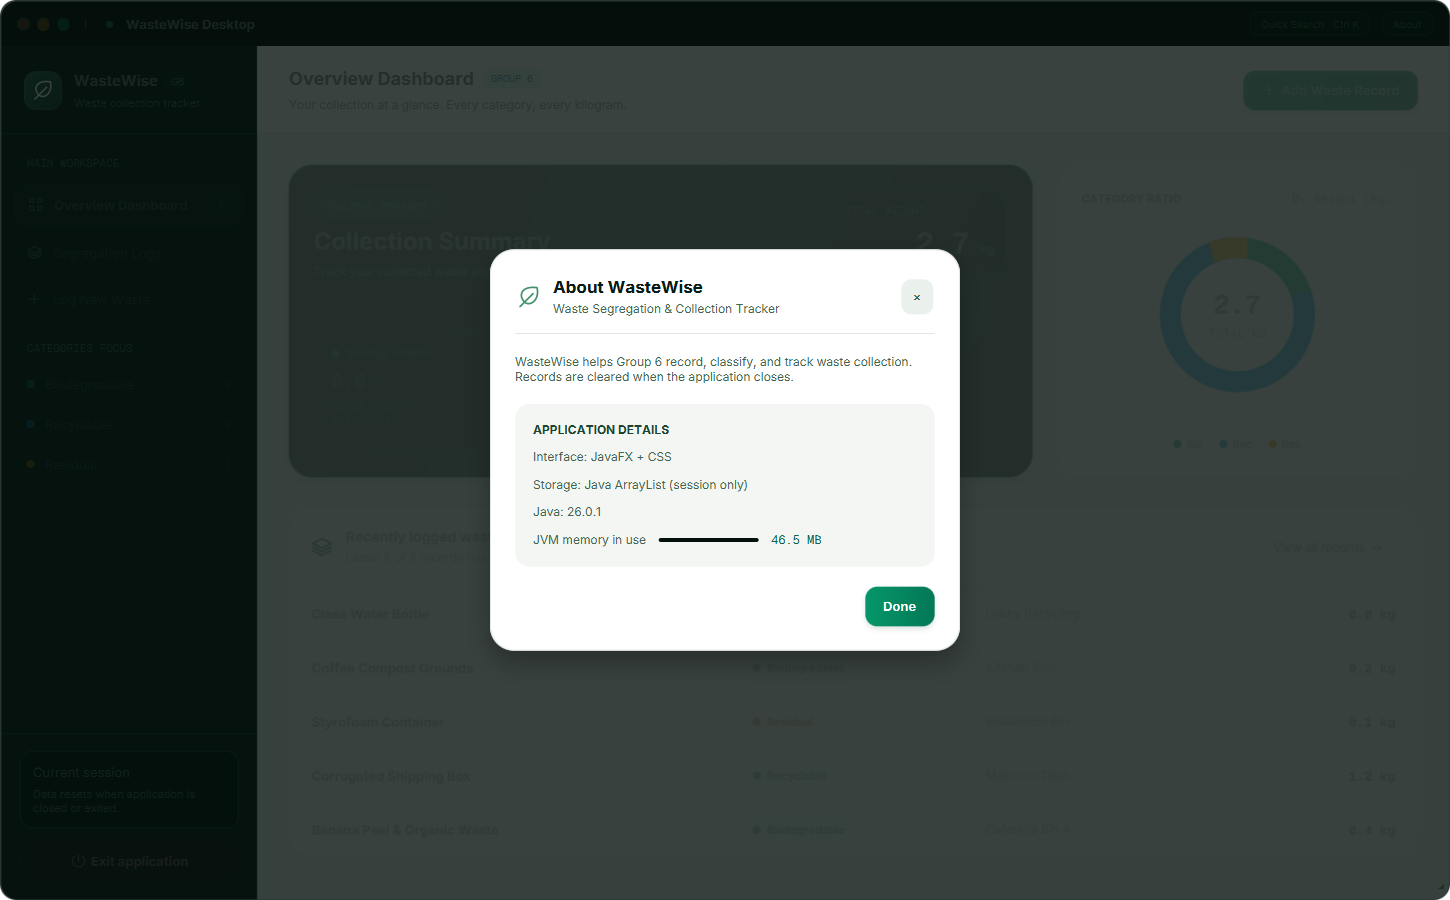
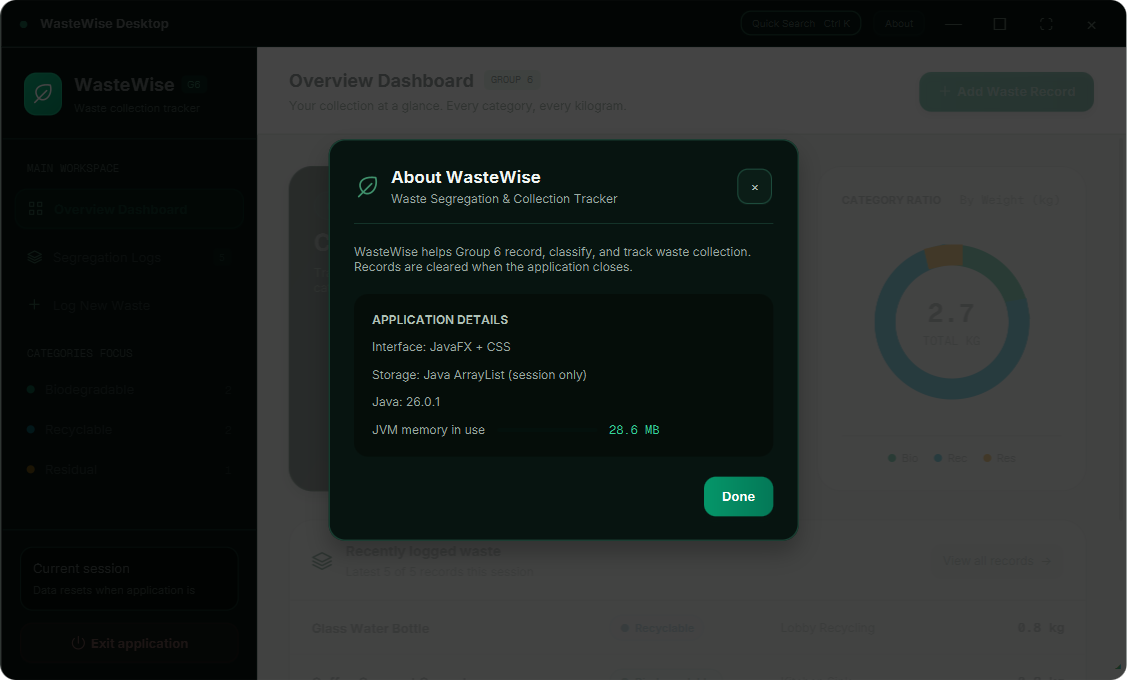
Updated the whole interface

diff --git a/src/main/resources/com/group6/wastewise/theme.css b/src/main/resources/com/group6/wastewise/theme.css
@@ -164,3 +164,77 @@
 .window-control { -fx-background-color: transparent; -fx-text-fill: #d8f3dc; -fx-font-size: 17px; -fx-min-width: 34; -fx-padding: 2 8; -fx-background-radius: 6; }
 .window-control:hover { -fx-background-color: #1b4332; }
 .window-close:hover { -fx-background-color: #b91c1c; -fx-text-fill: white; }
+
+/* EcoWise reference: dark emerald chrome and records; original overview retained. */
+.titlebar { -fx-background-color: #071410; -fx-border-color: transparent transparent #143329 transparent; }
+.sidebar { -fx-background-color: #071410; -fx-border-color: transparent #143329 transparent transparent; }
+.brand { -fx-border-color: transparent transparent #143329 transparent; }
+.brand-icon { -fx-background-color: linear-gradient(to bottom right,#10b981,#059669); -fx-border-color: #34d39966; }
+.brand-name { -fx-font-size: 18px; }
+.nav-active { -fx-background-color: #10b9811a; -fx-border-color: #10b98144; }
+.nav-active .side-label { -fx-text-fill: #34d399; }
+.side-label { -fx-text-fill: #cbd5d1; }
+.side-muted,.nav-heading { -fx-text-fill: #8a9e96; }
+.nav-button:hover,.category-nav:hover { -fx-background-color: #0f261f; }
+.runtime-note { -fx-background-color: #050d09; -fx-border-color: #143329; }
+.side-bottom { -fx-border-color: #143329 transparent transparent transparent; }
+.title-search { -fx-background-color: #0b1d17; -fx-border-color: #143329; -fx-text-fill: #a9c1b5; }
+.dark-workspace { -fx-background-color: #050d09; }
+.dark-workspace .page-header { -fx-background-color: #050d09; -fx-border-color: transparent transparent #143329 transparent; -fx-padding: 22 30; }
+.dark-workspace .page-title { -fx-text-fill: #f4f7f5; -fx-font-size: 24px; }
+.dark-workspace .group-badge { -fx-background-color: #10b98119; -fx-text-fill: #6ee7b7; -fx-border-color: #10b98133; -fx-border-radius: 5; }
+.dark-workspace .muted,.modal-card .muted,.toast .muted { -fx-text-fill: #9baaa3; }
+.dark-workspace .inventory-stat { -fx-background-color: linear-gradient(to bottom right,#0b1d17,#071410); -fx-border-color: #143329; -fx-border-width: 1; -fx-padding: 16; }
+.dark-workspace .stat-caption { -fx-text-fill: #b5c6bd; -fx-font-size: 12px; }
+.dark-workspace .stat-value { -fx-text-fill: white; -fx-font-size: 26px; }
+.dark-workspace .bio-stat .stat-value { -fx-text-fill: #34d399; }
+.dark-workspace .rec-stat .stat-value { -fx-text-fill: #22d3ee; }
+.dark-workspace .res-stat .stat-value { -fx-text-fill: #fbbf24; }
+.stat-foot { -fx-padding: 10 0 0 0; -fx-border-color: #143329 transparent transparent transparent; }
+.stat-foot .label { -fx-font-size: 10px; }
+.distribution-card { -fx-background-color: #0b1d17; -fx-background-radius: 12; -fx-border-radius: 12; -fx-border-color: #143329; -fx-padding: 14 18; }
+.distribution-title { -fx-text-fill: #d1ded7; -fx-font-size: 11px; -fx-font-weight: bold; }
+.distribution-card .flow-pane .label { -fx-font-size: 11px; }
+.distribution-track { -fx-background-color: #050d09; -fx-background-radius: 8; -fx-padding: 2; }
+.dark-workspace .records-toolbar { -fx-background-color: #0b1d17; -fx-border-color: #143329; -fx-background-radius: 12; -fx-border-radius: 12; -fx-padding: 12; }
+.dark-workspace .filters { -fx-background-color: #050d09; -fx-border-color: #143329; }
+.dark-workspace .filter { -fx-text-fill: #a2b1a9; -fx-padding: 8 9; }
+.dark-workspace .filter:hover { -fx-background-color: #143329; -fx-text-fill: white; }
+.dark-workspace .filter:selected { -fx-background-color: #10b981; -fx-text-fill: white; }
+.dark-workspace .text-field,.modal-card .text-field,.modal-card .combo-box { -fx-background-color: #050d09; -fx-border-color: #1e4d3d; -fx-text-fill: #e4eee8; -fx-prompt-text-fill: #85978d; }
+.dark-workspace .text-field:focused,.modal-card .text-field:focused,.modal-card .combo-box:focused { -fx-border-color: #34d399; }
+.dark-workspace .ledger { -fx-background-color: #071410; -fx-border-color: #143329; -fx-background-radius: 16; -fx-border-radius: 16; }
+.dark-workspace .section-title,.modal-card .modal-title,.toast .section-title { -fx-text-fill: #f1f5f2; }
+.dark-workspace .quiet,.modal-card .quiet { -fx-background-color: #0b1d17; -fx-border-color: #1e4d3d; -fx-border-radius: 10; -fx-text-fill: #c8d5cd; }
+.dark-workspace .quiet:hover,.modal-card .quiet:hover { -fx-background-color: #143329; }
+.dark-workspace .table-view .column-header-background,.dark-workspace .table-view .column-header,.dark-workspace .table-view .filler { -fx-background-color: #0b1d17; }
+.dark-workspace .table-view .column-header .label { -fx-text-fill: #9baaa3; }
+.dark-workspace .table-row-cell { -fx-background-color: #071410; -fx-border-color: transparent transparent #14332988 transparent; }
+.dark-workspace .table-row-cell:filled:hover { -fx-background-color: #0f261f; }
+.dark-workspace .table-row-cell:filled:selected { -fx-background-color: #1e4d3d; }
+.dark-workspace .table-row-cell:empty { -fx-border-color: transparent; }
+.dark-workspace .table-cell { -fx-text-fill: #d4e1d9; }
+.dark-workspace .bio-badge { -fx-background-color: #10b98115; -fx-border-color: #10b98144; -fx-text-fill: #34d399; }
+.dark-workspace .rec-badge { -fx-background-color: #06b6d415; -fx-border-color: #06b6d444; -fx-text-fill: #22d3ee; }
+.dark-workspace .res-badge { -fx-background-color: #f59e0b15; -fx-border-color: #f59e0b44; -fx-text-fill: #fbbf24; }
+.dark-workspace .delete-button { -fx-background-color: #0b1d17; }
+.dark-workspace .delete-button:hover { -fx-background-color: #ef444433; }
+.dark-workspace .ledger-footer { -fx-border-color: #143329 transparent transparent transparent; }
+.dark-workspace .visible-weight { -fx-background-color: #10b98120; -fx-text-fill: #6ee7b7; -fx-border-color: #10b98144; -fx-border-radius: 7; }
+.dark-workspace .rec-text { -fx-text-fill: #22d3ee; }
+.modal-overlay { -fx-background-color: #000000bb; }
+.modal-card { -fx-background-color: #071410; -fx-border-color: #1e4d3d; -fx-background-radius: 16; -fx-border-radius: 16; }
+.modal-header { -fx-border-color: transparent transparent #143329 transparent; }
+.modal-card .field-label { -fx-text-fill: #afc1b6; }
+.modal-card .validation-error { -fx-text-fill: #fda4af; }
+.modal-card .combo-box .list-cell { -fx-background-color: transparent; -fx-text-fill: #e4eee8; }
+.combo-box-popup .list-view { -fx-background-color: #0b1d17; -fx-border-color: #1e4d3d; }
+.combo-box-popup .list-cell { -fx-background-color: #0b1d17; -fx-text-fill: #e4eee8; -fx-padding: 10; }
+.combo-box-popup .list-cell:filled:hover,.combo-box-popup .list-cell:filled:selected { -fx-background-color: #1e4d3d; }
+.category-helper { -fx-text-fill: #6ee7b7; -fx-background-color: #050d09; -fx-border-color: #143329; -fx-border-radius: 8; -fx-background-radius: 8; -fx-padding: 10; -fx-font-size: 11px; }
+.modal-card .warning-note { -fx-background-color: #050d09; -fx-border-color: #f59e0b44; }
+.modal-card .warning-heading { -fx-text-fill: #fbbf24; }
+.modal-card .warning-copy { -fx-text-fill: #c2cec7; -fx-font-size: 12px; }
+.about-details { -fx-background-color: #050d09; }
+.about-details .heap-text { -fx-text-fill: #34d399; }
+.toast { -fx-background-color: #0b1d17; -fx-border-color: #1e4d3d; }

diff --git a/src/main/java/com/group6/wastewise/WasteWiseApp.java b/src/main/java/com/group6/wastewise/WasteWiseApp.java
@@ -58,6 +58,10 @@ public class WasteWiseApp extends Application {
     private final Button clearFilters = button("Clear filters", "quiet", this::clearFilters);
     private BorderPane workspacePane;
     private VBox logsPage;
+    private final ScrollPane logsScroll = new ScrollPane();
+    private final Canvas distribution = new Canvas(600, 10);
+    private final EnumMap<Category, Label> ratioLabels = new EnumMap<>(Category.class);
+    private final EnumMap<Category, Label> statShares = new EnumMap<>(Category.class);
     private Button overviewNav;
     private Button logsNav;
     private boolean showingLogs;
@@ -179,8 +183,9 @@ public class WasteWiseApp extends Application {
         nav.getChildren().add(label("MAIN WORKSPACE", "nav-heading mono"));
         overviewNav = navButton("Overview Dashboard", "grid", () -> showView(false));
         overviewNav.setId("nav-overview"); overviewNav.getStyleClass().add("nav-active");
-        HBox overviewGraphic = (HBox) overviewNav.getGraphic(); overviewGraphic.getChildren().addAll(spacer(), recordCount);
+
         logsNav = navButton("Segregation Logs", "layers", () -> showView(true)); logsNav.setId("nav-logs");
+        ((HBox)logsNav.getGraphic()).getChildren().addAll(spacer(),recordCount);
         nav.getChildren().addAll(overviewNav, logsNav, navButton("Log New Waste", "plus", this::openAddModal));
         VBox categories = new VBox(8); categories.getStyleClass().add("nav-section"); categories.getChildren().add(label("CATEGORIES FOCUS", "nav-heading mono"));
         for (Category c : Category.values()) {
@@ -203,11 +208,16 @@ public class WasteWiseApp extends Application {
         body.getStyleClass().add("body-content"); body.setId("overview-page"); body.getChildren().addAll(metrics(), recentActivity());
         scroll.setContent(body); scroll.setFitToWidth(true); scroll.setHbarPolicy(ScrollPane.ScrollBarPolicy.NEVER); scroll.getStyleClass().add("workspace-scroll");
         logsPage = ledger(); logsPage.setId("logs-page");
+        logsPage.setMinHeight(590);
+        logsScroll.setContent(logsPage); logsScroll.setFitToWidth(true); logsScroll.setFitToHeight(true);
+        logsScroll.setHbarPolicy(ScrollPane.ScrollBarPolicy.NEVER); logsScroll.getStyleClass().add("workspace-scroll");
         workspacePane = new BorderPane(scroll); workspacePane.setTop(header); workspacePane.getStyleClass().add("workspace"); return workspacePane;
     }
     private void showView(boolean logs) {
         showingLogs = logs;
-        workspacePane.setCenter(logs ? logsPage : scroll);
+        workspacePane.setCenter(logs ? logsScroll : scroll);
+        workspacePane.getStyleClass().remove("dark-workspace");
+        if (logs) workspacePane.getStyleClass().add("dark-workspace");
         pageTitle.setText(logs ? "Segregation Logs" : "Overview Dashboard");
         pageSubtitle.setText(logs ? "Search, filter, and manage your collection records." : "Your collection at a glance. Every category, every kilogram.");
         overviewNav.getStyleClass().remove("nav-active"); logsNav.getStyleClass().remove("nav-active");
@@ -240,14 +250,40 @@ public class WasteWiseApp extends Application {
     }
     private HBox inventoryStats() {
         HBox stats = new HBox(14);
-        VBox all = column(10,label("TOTAL COLLECTION","stat-caption"),logsTotal,logsCount); all.getStyleClass().addAll("inventory-stat","total-stat");
+        VBox all = column(10,label("TOTAL COLLECTION","stat-caption"),logsTotal,statFoot(logsCount,label("All waste","muted"))); all.getStyleClass().addAll("inventory-stat","total-stat");
         stats.getChildren().add(categoryLink(all,null,"logs-all"));
         for (Category c : Category.values()) {
             Label value = label("0.0 kg","stat-value mono"), count = label("0 records","muted"); logWeights.put(c,value); logCounts.put(c,count);
-            VBox card = column(10,row(7,dot(c),label(c.toString(),"stat-caption")),value,count); card.getStyleClass().addAll("inventory-stat",c.style()+"-stat"); stats.getChildren().add(categoryLink(card,c,"logs-"+c.style()));
+            Label share = label("0.0%",c.style()+"-text mono"); statShares.put(c,share);
+            VBox card = column(10,row(7,dot(c),label(c.toString(),"stat-caption")),value,statFoot(count,share)); card.getStyleClass().addAll("inventory-stat",c.style()+"-stat"); stats.getChildren().add(categoryLink(card,c,"logs-"+c.style()));
         }
         for (Node n : stats.getChildren()) { Region card=(Region)n; card.setMinWidth(0); card.setPrefWidth(250); card.setMaxWidth(Double.MAX_VALUE); HBox.setHgrow(card,Priority.ALWAYS); }
         return stats;
+    }
+    private HBox statFoot(Label count, Label share) {
+        HBox foot = row(4,count,spacer(),share); foot.getStyleClass().add("stat-foot"); return foot;
+    }
+    private VBox distributionCard() {
+        FlowPane legend = new FlowPane(16,6);
+        for (Category c : Category.values()) {
+            Label value = label("",c.style()+"-text mono"); ratioLabels.put(c,value);
+            legend.getChildren().add(row(6,dot(c),value));
+        }
+        StackPane track = new StackPane(distribution); track.getStyleClass().add("distribution-track");
+        distribution.widthProperty().bind(track.widthProperty().subtract(4));
+        distribution.widthProperty().addListener((o,a,b) -> drawDistribution());
+        VBox card = column(10,label("STREAM WEIGHT DISTRIBUTION","distribution-title mono"),legend,track);
+        card.getStyleClass().add("distribution-card"); return card;
+    }
+    private void drawDistribution() {
+        double sum=tracker.calculateTotalWeight(), x=0;
+        GraphicsContext gc=distribution.getGraphicsContext2D(); gc.clearRect(0,0,distribution.getWidth(),10);
+        for (Category c : Category.values()) {
+            double share=sum==0?0:tracker.calculateCategoryWeight(c)/sum;
+            double width=share*distribution.getWidth(); gc.setFill(Color.web(color(c))); gc.fillRect(x,0,width,10); x+=width;
+            if (ratioLabels.containsKey(c)) ratioLabels.get(c).setText(c+String.format(Locale.US," (%.1f%%)",share*100));
+            if (statShares.containsKey(c)) statShares.get(c).setText(String.format(Locale.US,"%.1f%%",share*100));
+        }
     }
     private Button categoryLink(VBox content, Category category, String id) {
         Button link = button("", "card-link", () -> { showView(true); search.clear(); setFilter(category); });
@@ -345,7 +381,7 @@ public class WasteWiseApp extends Application {
         undo.setId("undo-button");
         HBox foot = row(10, footer, spacer(),label("Visible records weight", "muted"),visibleWeight); foot.getStyleClass().add("ledger-footer");
         ledger.getChildren().addAll(tableHeading, table, foot); VBox.setVgrow(ledger,Priority.ALWAYS);
-        VBox page = column(20, inventoryStats(),tools,ledger); page.getStyleClass().add("logs-content");
+        VBox page = column(16, inventoryStats(),distributionCard(),tools,ledger); page.getStyleClass().add("logs-content");
         return page;
     }
     private TableColumn<Waste,String> textColumn(String title, java.util.function.Function<Waste,String> value, double width) {
@@ -388,14 +424,14 @@ public class WasteWiseApp extends Application {
             logCounts.get(c).setText(countText);
             percentages.get(c).setText(percentages.get(c).getText() + "\n" + countText);
         }
-        refreshRecent(); refreshTable(); updateHeap();
+        drawDistribution(); refreshRecent(); refreshTable(); updateHeap();
     }
     private void updateHeap() {
         Runtime r = Runtime.getRuntime(); long used = r.totalMemory() - r.freeMemory();
         heapText.setText(String.format(Locale.US, "%.1f MB", used / 1048576.0)); heapBar.setProgress((double) used / r.maxMemory());
     }
     private void delete(Waste w) { if (tracker.removeWaste(w.getId())) { refresh(); toast("Record Deleted", "Removed \"" + w.getWasteName() + "\". Use Undo last delete to restore."); } }
-    private void undoDelete() { if (tracker.undoLastDelete()) { refresh(); toast("Restored", "Record restored to ArrayList memory."); } }
+    private void undoDelete() { if (tracker.undoLastDelete()) { refresh(); toast("Restored", "Record restored to your collection."); } }
 
     private void openAddModal() {
         if (overlay != null) return;
@@ -403,6 +439,12 @@ public class WasteWiseApp extends Application {
         ComboBox<Category> category = new ComboBox<>(FXCollections.observableArrayList(Category.values())); category.setPromptText("Choose category..."); category.setMaxWidth(Double.MAX_VALUE); category.setId("input-category");
         TextField weight = new TextField(); weight.setPromptText("0.5"); weight.setId("input-weight");
         TextField location = new TextField(); location.setPromptText("Cafeteria Bin A"); location.setId("input-location");
+        Label helper = label("Choose a category to see example items.", "category-helper"); helper.setWrapText(true); helper.setId("category-helper");
+        category.valueProperty().addListener((o,a,c) -> helper.setText(c == null ? "Choose a category to see example items." : switch(c) {
+            case BIODEGRADABLE -> "Examples: fruit peels, food scraps, leaves and garden waste.";
+            case RECYCLABLE -> "Examples: clean paper, cardboard, bottles and metal cans. Follow local collection rules.";
+            case RESIDUAL -> "Examples: used tissues, diapers and non-recyclable wrappers.";
+        }));
         Label error = label("", "validation-error"); error.setId("form-error"); error.setWrapText(true);
         VBox left = field("WEIGHT (kg)", weight), right = field("LOCATION / BIN", location); HBox.setHgrow(left,Priority.ALWAYS); HBox.setHgrow(right,Priority.ALWAYS);
         Button save = button("Add Waste Record", "primary", () -> {
@@ -413,7 +455,7 @@ public class WasteWiseApp extends Application {
                 refresh(); closeModal(); toast("Record Added", "Logged \"" + added.getWasteName() + "\" successfully.");
             } catch (IllegalArgumentException ex) { error.setText(ex.getMessage()); }
         }); save.setId("save-record"); save.setDefaultButton(true);
-        VBox card = column(18, modalHeader("Add Waste Item", "Record a collection for this session", "plus"), field("WASTE ITEM NAME", name), field("CATEGORY SELECT", category), new HBox(12,left,right), error, row(10, spacer(), button("Cancel", "quiet", this::closeModal), save));
+        VBox card = column(18, modalHeader("Add Waste Item", "Record a collection for this session", "plus"), field("WASTE ITEM NAME", name), column(8,field("WASTE CATEGORY", category),helper), new HBox(12,left,right), error, row(10, spacer(), button("Cancel", "quiet", this::closeModal), save));
         showModal(card); Platform.runLater(name::requestFocus);
     }
     private void openExitModal() {
@@ -421,7 +463,7 @@ public class WasteWiseApp extends Application {
         Label warning = label("Your records are stored only for this session. Closing the application will remove all logged waste records.", "warning-copy"); warning.setWrapText(true);
         VBox note = column(10, label("SESSION RECORDS WILL BE LOST", "warning-heading mono"), warning); note.getStyleClass().add("warning-note");
         Button exit = button("Exit application", "danger", () -> { tracker.clear(); stage.hide(); Platform.exit(); }); exit.setId("confirm-exit");
-        VBox card = column(20, modalHeader("Exit Program Confirmation", "Your session has not been saved", "power"), label("Are you sure you want to end the Java application session?", "muted"), note, row(10, spacer(), button("Cancel & Keep Running", "quiet", this::closeModal), exit));
+        VBox card = column(20, modalHeader("Exit Program Confirmation", "Your session has not been saved", "power"), label("Are you sure you want to end this tracking session?", "muted"), note, row(10, spacer(), button("Resume Tracking", "quiet", this::closeModal), exit));
         showModal(card);
     }
     private HBox modalHeader(String title, String subtitle, String icon) { HBox h = row(12, icon(icon,"#40916c",24), column(4,label(title,"modal-title"),label(subtitle,"muted")), spacer(), button("×","quiet",this::closeModal)); h.getStyleClass().add("modal-header"); return h; }
@@ -447,7 +489,7 @@ public class WasteWiseApp extends Application {
     private static HBox row(double gap, Node... nodes) { HBox box = new HBox(gap,nodes); box.setAlignment(Pos.CENTER_LEFT); return box; }
     private static VBox column(double gap, Node... nodes) { return new VBox(gap,nodes); }
     private static Region spacer() { Region r = new Region(); HBox.setHgrow(r,Priority.ALWAYS); return r; }
-    private static String color(Category c) { return switch(c) { case BIODEGRADABLE -> "#10b981"; case RECYCLABLE -> "#0ea5e9"; case RESIDUAL -> "#f59e0b"; }; }
+    private static String color(Category c) { return switch(c) { case BIODEGRADABLE -> "#10b981"; case RECYCLABLE -> "#06b6d4"; case RESIDUAL -> "#f59e0b"; }; }
     private static Circle dot(Category c) { return new Circle(4,Color.web(color(c))); }
     private static Node icon(String name,String color,double size) {
         String d = switch(name) {
@@ -475,12 +517,13 @@ public class WasteWiseApp extends Application {
             snapshot(dir.resolve("about.png")); ((Button)root.lookup("#about-done")).fire(); require(overlay==null,"About closes");
             search.setText("unmatched"); ((Button)root.lookup("#overview-rec")).fire();
             require(showingLogs && selectedCategory==Category.RECYCLABLE && search.getText().isEmpty() && table.getItems().size()==2,"Overview card filters and clears stale search");
-            ((Button)root.lookup("#logs-bio")).fire(); require(selectedCategory==Category.BIODEGRADABLE && table.getItems().size()==2,"Inventory category card filters");
-            ((Button)root.lookup("#logs-all")).fire(); require(selectedCategory==null && table.getItems().size()==5,"Total card clears filters");
+            ((Button)logsPage.lookup("#logs-bio")).fire(); require(selectedCategory==Category.BIODEGRADABLE && table.getItems().size()==2,"Inventory category card filters");
+            ((Button)logsPage.lookup("#logs-all")).fire(); require(selectedCategory==null && table.getItems().size()==5,"Total card clears filters");
             overviewNav.fire();
             require(!showingLogs && workspacePane.getCenter()==scroll,"Overview is initial screen");
-            logsNav.fire(); require(showingLogs && workspacePane.getCenter()==logsPage,"Dedicated logs navigation");
+            logsNav.fire(); require(showingLogs && workspacePane.getCenter()==logsScroll,"Dedicated logs navigation");
             snapshot(dir.resolve("logs.png"));
+            require(statShares.get(Category.RECYCLABLE).getText().equals("74.1%"),"Distribution uses global weights");
             require(table.getItems().size() == 5,"Demo records"); require(Math.abs(tracker.calculateTotalWeight()-2.7)<1e-9,"Demo total");
             search.setText("cafeteria"); require(table.getItems().size()==1,"Search location"); require(visibleWeight.getText().equals("0.4 kg"),"Filtered total");
             overviewNav.fire(); require(!showingLogs && search.getText().equals("cafeteria"),"Navigation preserves filters");
@@ -496,12 +539,14 @@ public class WasteWiseApp extends Application {
             openAddModal(); root.applyCss(); root.layout(); snapshot(dir.resolve("add-dialog.png"));
             ((TextField)root.lookup("#input-name")).setText("Test food");
             ((ComboBox<Category>)root.lookup("#input-category")).setValue(Category.BIODEGRADABLE);
+            require(((Label)root.lookup("#category-helper")).getText().contains("fruit peels"),"Category examples update");
             ((TextField)root.lookup("#input-weight")).setText("-2");
             ((TextField)root.lookup("#input-location")).setText("Test bin");
             ((Button)root.lookup("#save-record")).fire(); require(tracker.viewWaste().size()==5 && !((Label)root.lookup("#form-error")).getText().isEmpty(),"Invalid weight rejected");
             ((TextField)root.lookup("#input-weight")).setText("2"); ((Button)root.lookup("#save-record")).fire(); require(tracker.viewWaste().size()==6 && overlay==null,"Add via form");
             Waste last = tracker.viewWaste().get(5); delete(last); require(tracker.viewWaste().size()==5,"Delete"); undo.fire(); require(tracker.viewWaste().size()==6,"Undo");
             tracker.clear(); refresh(); toastArea.getChildren().clear(); snapshot(dir.resolve("empty.png")); require(table.getItems().isEmpty() && tracker.calculateTotalWeight()==0,"Empty state");
+            require(statShares.values().stream().allMatch(l -> l.getText().equals("0.0%")),"Empty distribution resets");
             openExitModal(); root.applyCss(); root.layout(); snapshot(dir.resolve("exit-dialog.png")); closeModal(); require(stage.isShowing(),"Exit cancellation");
             stage.setWidth(1120); stage.setHeight(740); tracker.loadDemoRecords(); refresh();
             PauseTransition resizeWait = new PauseTransition(Duration.millis(400));

diff --git a/README.md b/README.md
@@ -99,3 +99,11 @@ Text and table rows use larger type with darker secondary text. The overview hea
 ## Window controls
 
 The application starts windowed and adapts its initial size to the display. Top-right controls provide minimize, maximize/restore, full screen, and close. Double-click a non-button area of the title bar to maximize/restore. Press F11 to toggle full screen, or Escape to leave it. Maximize uses the monitor work area so the taskbar remains available. Drag the lower-right grip to resize a normal window.
+
+## EcoWise design update
+
+The EcoWise desktop HTML now guides the dark emerald sidebar, title bar, Segregation Logs, forms, confirmations, About panel, and notifications. The existing light Overview Dashboard retains its Collection Summary, category cards, donut chart, and recent activity. WasteWise branding and real window controls remain.
+
+Records include global category percentages and a live weight-distribution bar, independent of table filtering. The add form shows examples for the selected category. Records scroll on smaller windows. Existing validation, sorting, delete/undo, keyboard shortcuts, and session-only storage remain functional. The HTML's placeholder analytics navigation and simulated runtime information are not included.
+
+Verification also checks global distribution percentages, zero-weight resets, dynamic category examples, and minimize/maximize/restore/full-screen controls.
